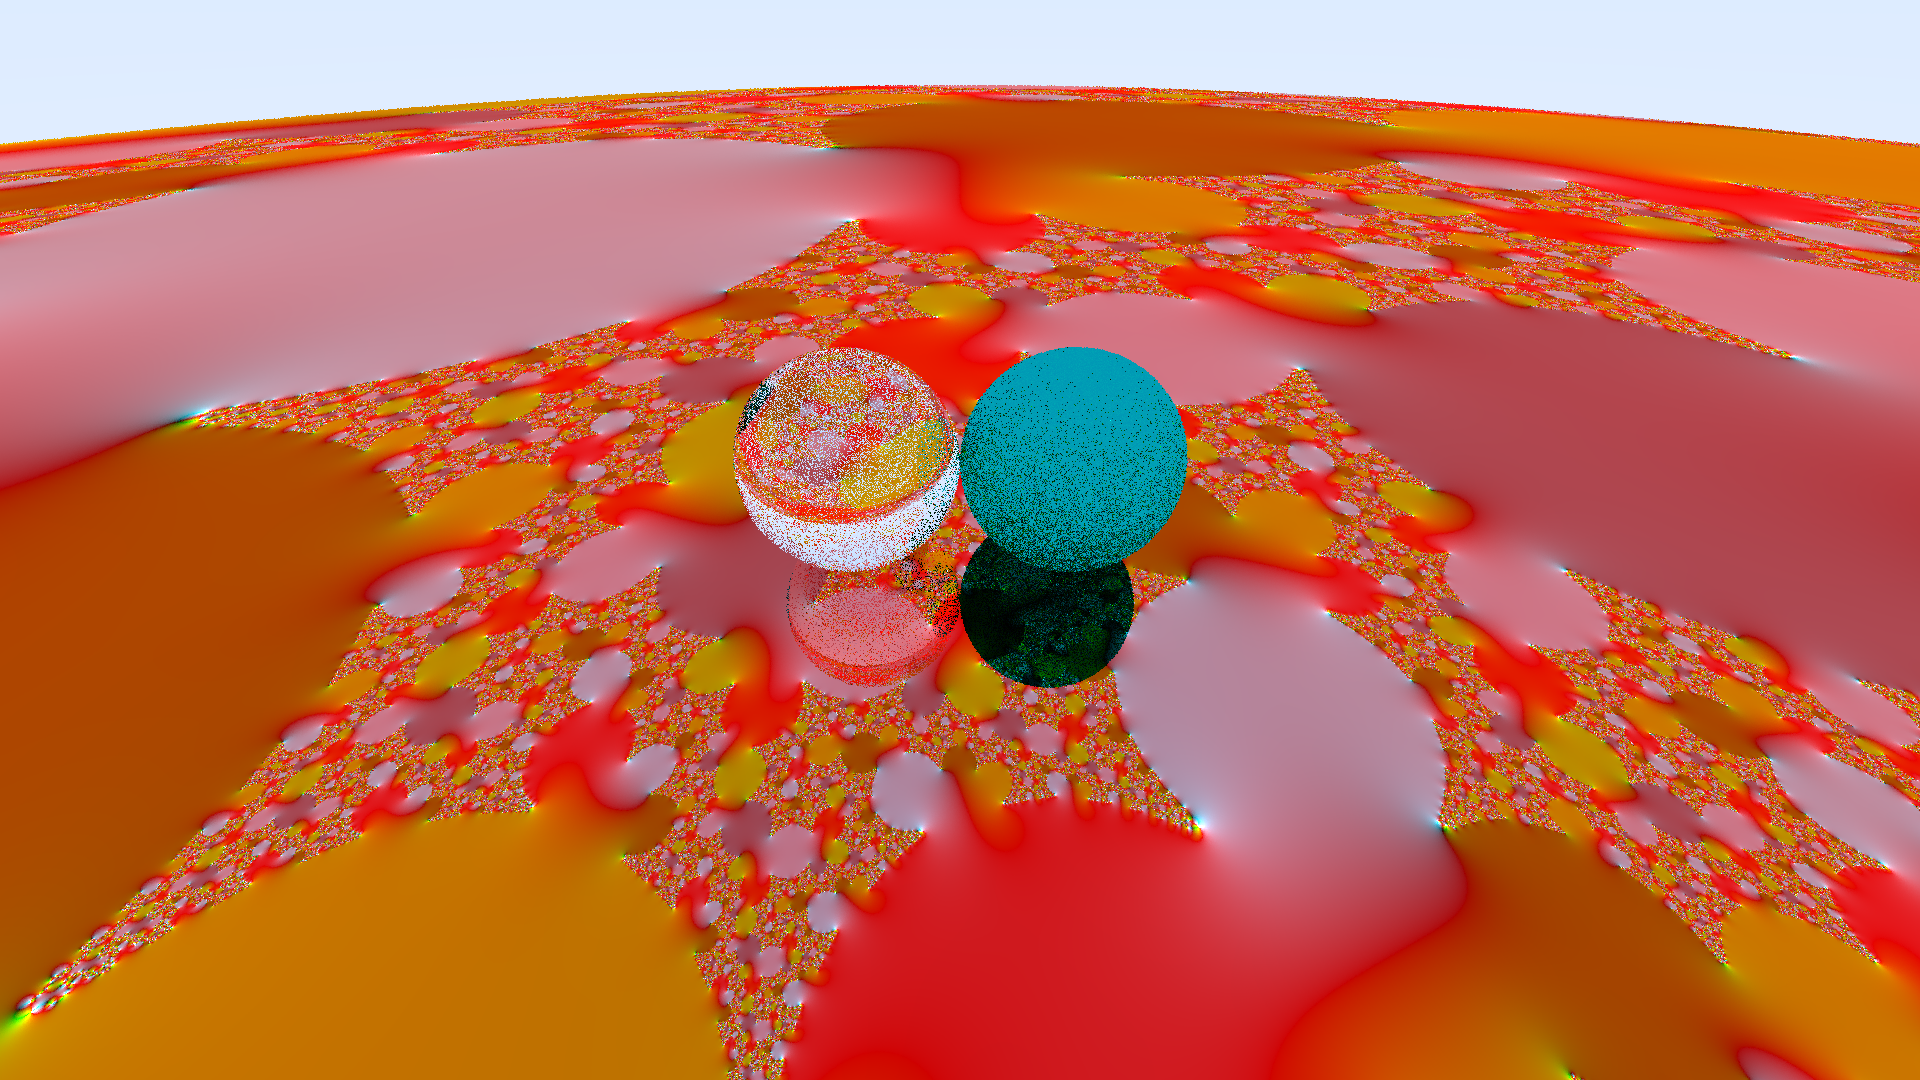
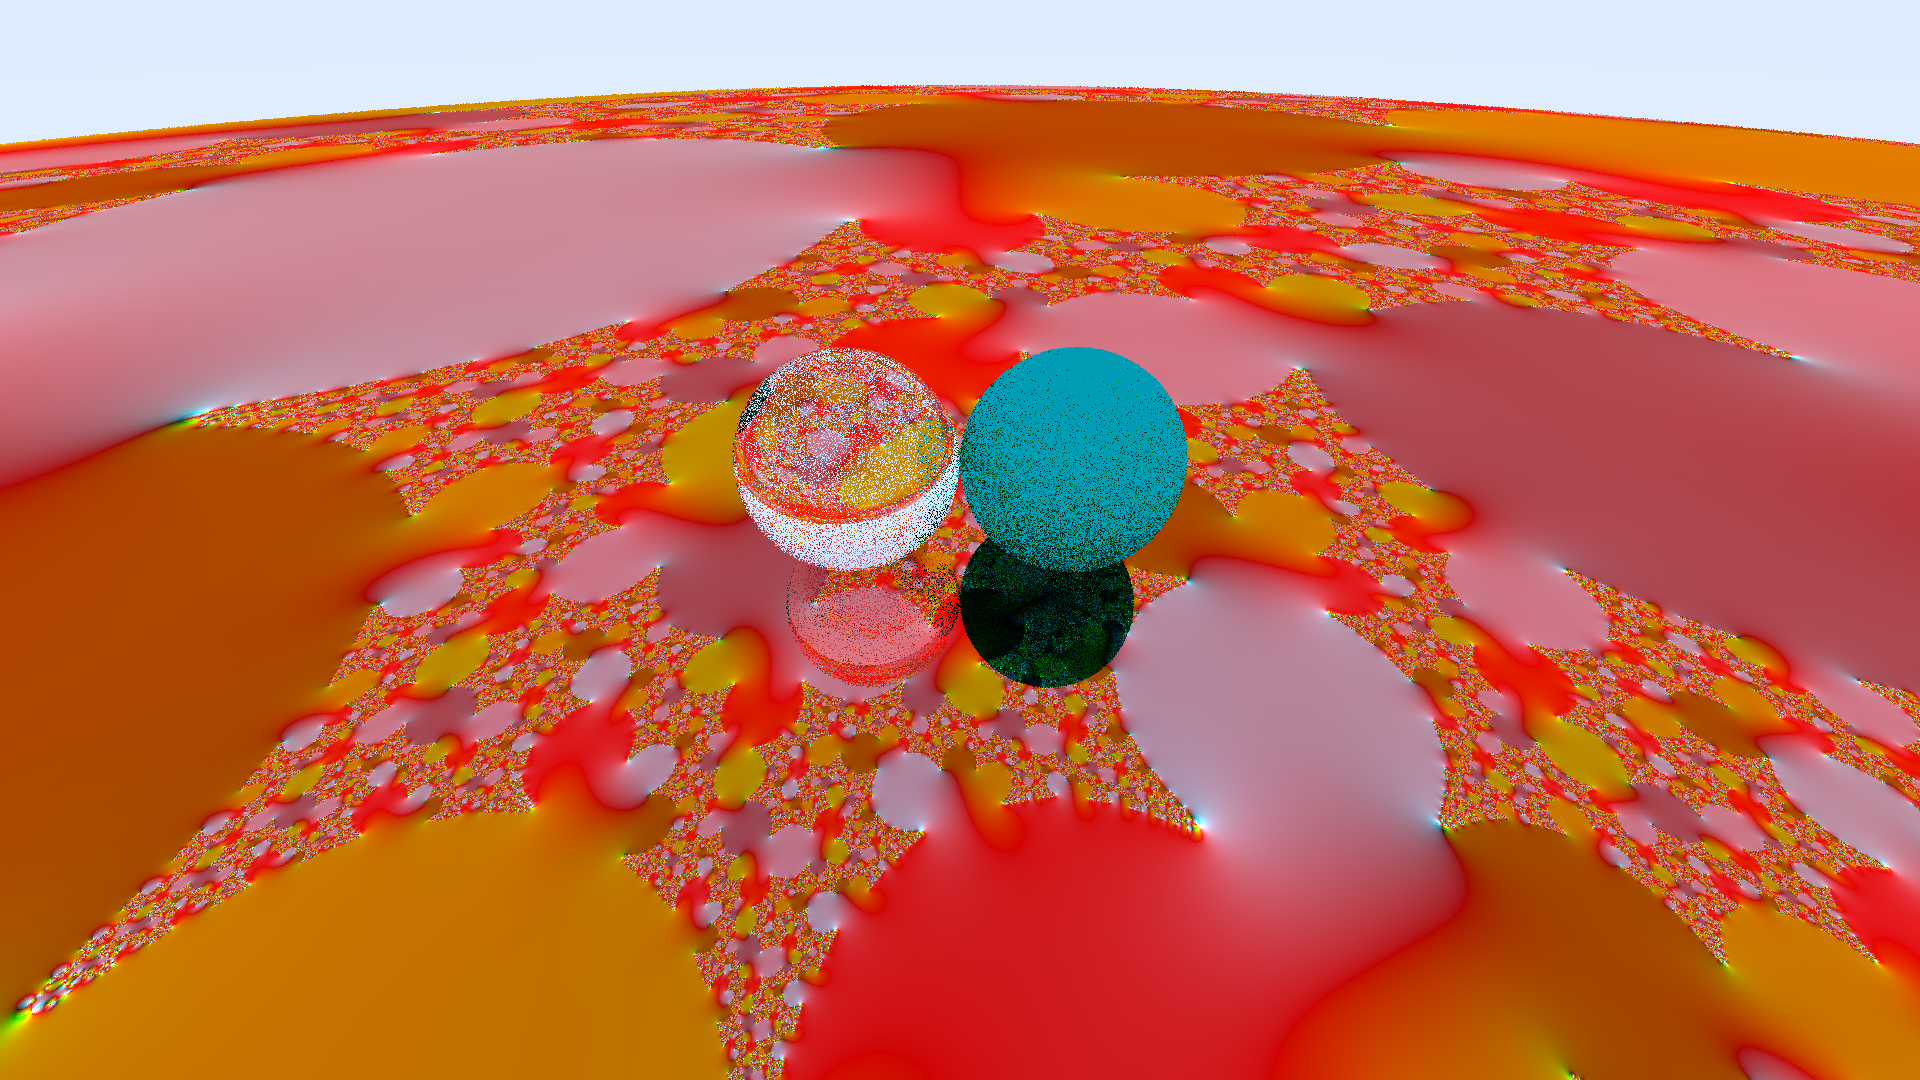
Use Rayon for faster rendering

diff --git a/src/camera.rs b/src/camera.rs
@@ -7,6 +7,7 @@ use crate::{
 use core::f64;
 use glam::{dvec3, DVec3};
 use image::{Rgb, RgbImage};
+use rayon::prelude::*;
 
 #[derive(Debug)]
 pub struct Camera {
@@ -118,6 +119,7 @@ impl Camera {
             return DVec3::ZERO;
         }
 
+        // Avoid intersecting same object by using a small value
         if let Some(hit) = world.hit(ray, 1e-9, f64::MAX) {
             if let Some((new_ray, attenuation)) = hit.material.scatter(ray, &hit) {
                 return attenuation * self.sample(world, &new_ray, depth - 1);
@@ -152,7 +154,7 @@ impl Camera {
     }
 
     pub fn render(&self, world: &HittableList) -> RgbImage {
-        RgbImage::from_fn(self.width, self.height, |x, y| {
+        RgbImage::from_par_fn(self.width, self.height, |x, y| {
             self.render_pixel(world, x, y)
         })
     }

diff --git a/src/material/traits.rs b/src/material/traits.rs
@@ -2,6 +2,6 @@ use crate::{hittable::Hit, ray::Ray};
 
 use glam::DVec3;
 
-pub trait Material {
+pub trait Material: Send + Sync {
     fn scatter(&self, ray: &Ray, hit: &Hit) -> Option<(Ray, DVec3)>;
 }

diff --git a/src/hittable/traits.rs b/src/hittable/traits.rs
@@ -2,6 +2,6 @@ use super::hit::Hit;
 
 use crate::ray::Ray;
 
-pub trait Hittable {
+pub trait Hittable: Send + Sync {
     fn hit(&self, ray: &Ray, min: f64, max: f64) -> Option<Hit>;
 }
